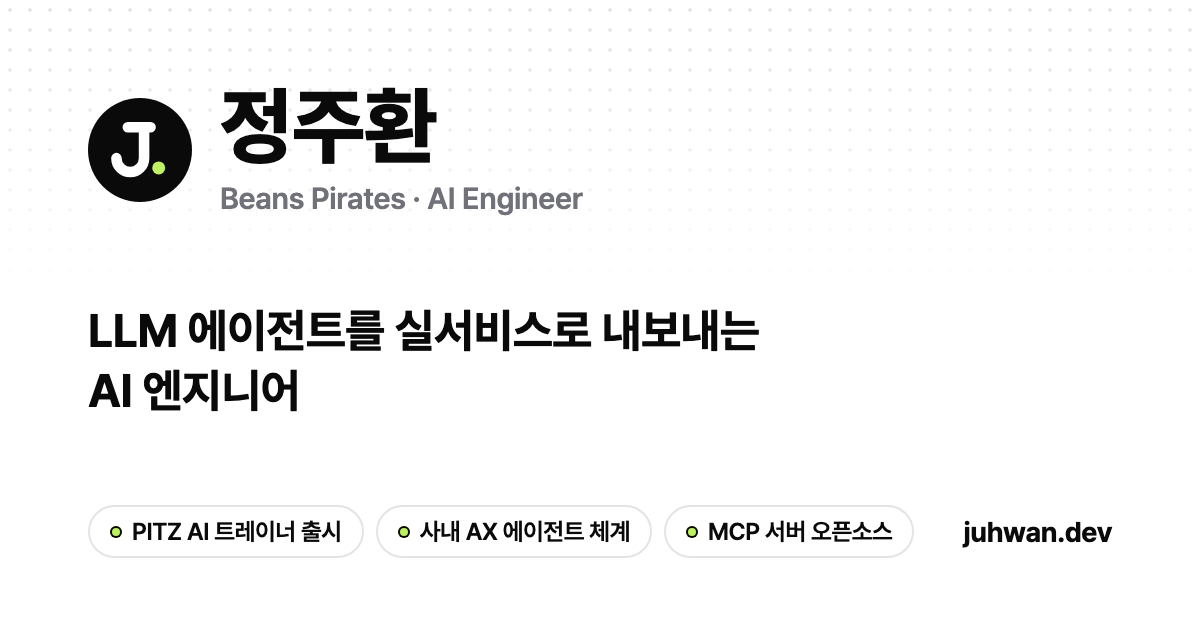
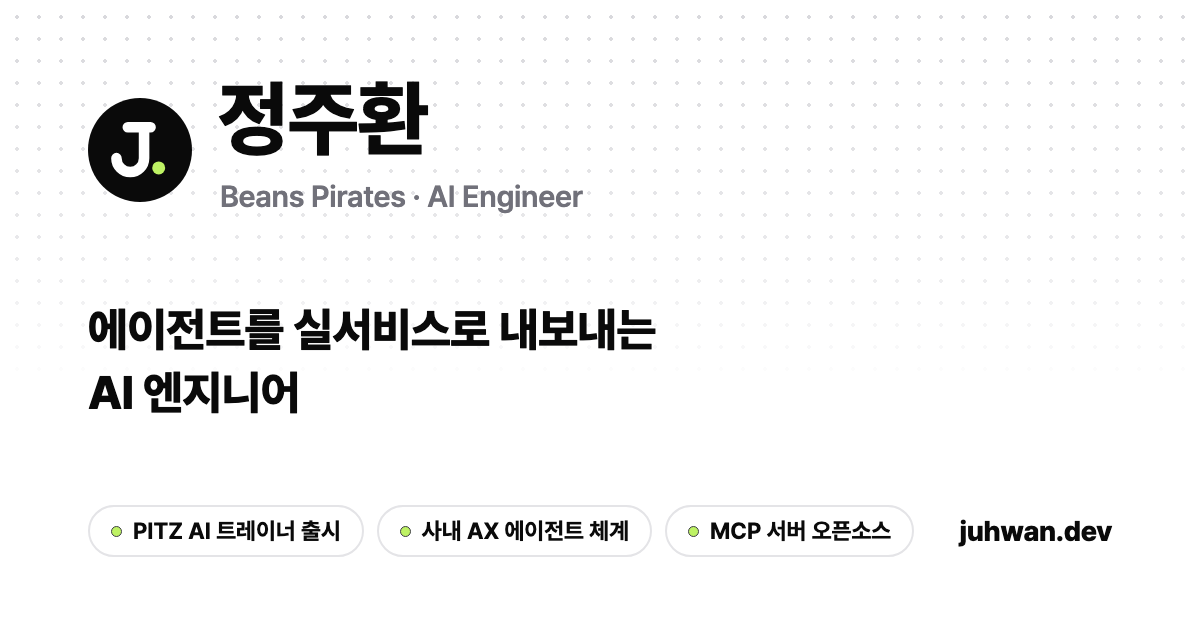
content: drop "LLM" from the headline, add university entrance
Korean job posts and the industry now say "AI 에이전트" or just
"에이전트 개발"; every agent today is LLM-based, so the prefix only
repeats itself. The headline, page descriptions and the link preview
image now read "에이전트를 실서비스로 내보내는 AI 엔지니어". The
image URL carries ?v=2 so chat apps that cached the old picture fetch
the new one. The 소개 paragraph stays as it was.

The activity timeline also gains its missing first row: entering
Inje University's computer engineering department in 2020-03.

diff --git a/frontend/index.html b/frontend/index.html
@@ -6,18 +6,18 @@
 
     <!-- Default SEO (react-helmet-async will override per page) -->
     <title>정주환 — AI Engineer</title>
-    <meta name="description" content="AI 엔지니어 정주환. LLM 에이전트를 실서비스로 내보낸 프로젝트와 경력을 소개합니다." />
+    <meta name="description" content="AI 엔지니어 정주환. 에이전트를 실서비스로 내보낸 프로젝트와 경력을 소개합니다." />
     <meta name="author" content="정주환" />
     <link rel="canonical" href="https://juhwan.dev" />
 
     <!-- Open Graph -->
     <meta property="og:type" content="website" />
     <meta property="og:title" content="정주환 — AI Engineer" />
-    <meta property="og:description" content="AI 엔지니어 정주환. LLM 에이전트를 실서비스로 내보낸 프로젝트와 경력을 소개합니다." />
-    <meta property="og:image" content="https://juhwan.dev/og.png" />
+    <meta property="og:description" content="AI 엔지니어 정주환. 에이전트를 실서비스로 내보낸 프로젝트와 경력을 소개합니다." />
+    <meta property="og:image" content="https://juhwan.dev/og.png?v=2" />
     <meta property="og:image:width" content="1200" />
     <meta property="og:image:height" content="630" />
-    <meta property="og:image:alt" content="정주환 — LLM 에이전트를 실서비스로 내보내는 AI 엔지니어" />
+    <meta property="og:image:alt" content="정주환 — 에이전트를 실서비스로 내보내는 AI 엔지니어" />
     <meta property="og:url" content="https://juhwan.dev" />
     <meta property="og:site_name" content="정주환 포트폴리오" />
     <meta property="og:locale" content="ko_KR" />
@@ -25,8 +25,8 @@
     <!-- Twitter Card -->
     <meta name="twitter:card" content="summary_large_image" />
     <meta name="twitter:title" content="정주환 — AI Engineer" />
-    <meta name="twitter:description" content="AI 엔지니어 정주환. LLM 에이전트를 실서비스로 내보낸 프로젝트와 경력을 소개합니다." />
-    <meta name="twitter:image" content="https://juhwan.dev/og.png" />
+    <meta name="twitter:description" content="AI 엔지니어 정주환. 에이전트를 실서비스로 내보낸 프로젝트와 경력을 소개합니다." />
+    <meta name="twitter:image" content="https://juhwan.dev/og.png?v=2" />
 
     <!-- Favicon -->
     <link rel="icon" href="/favicon.ico" sizes="32x32" />
